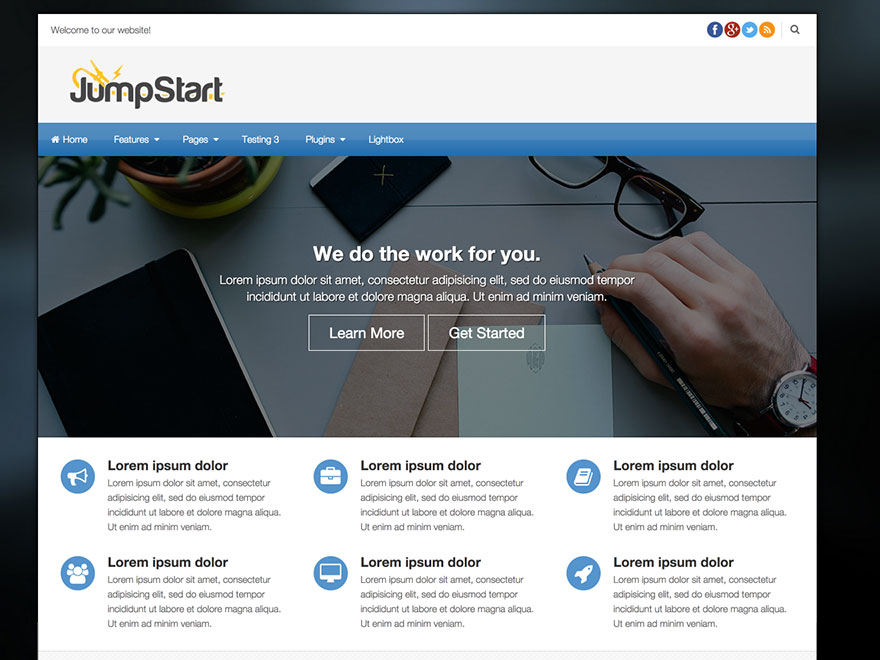
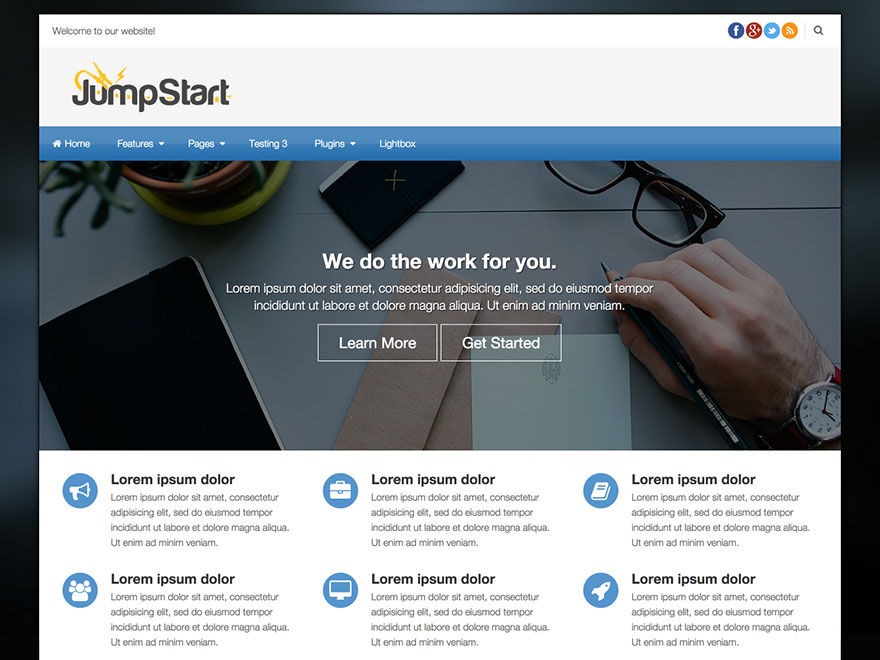
Little fixes to super user theme base

diff --git a/base/superuser/base.css b/base/superuser/base.css
@@ -126,7 +126,9 @@ Author URI: http://www.themeblvd.com
 	max-width: 1170px;
 }
 .js-boxed .tb-sticky-menu {
+	margin-left: -585px;
 	max-width: 1170px;
+	left: 50%;
 }
 .js-boxed .tb-sticky-menu > .wrap {
 	padding: 0 15px;
@@ -163,8 +165,10 @@ Author URI: http://www.themeblvd.com
 		max-width: 960px;
 	}
 	.js-boxed .tb-sticky-menu {
+		margin-left: -480px;
 		max-width: 960px;
 	}
+
 }
 @media (max-width: 992px) {
 	.js-boxed #container {

diff --git a/base/superuser/base.php b/base/superuser/base.php
@@ -73,7 +73,7 @@ function jumpstart_su_options() {
 			),
 			'layout_border_width' => array(
 				'id'		=> 'layout_border_width',
-				'name'		=> __('Bottom Border Width', 'themeblvd'),
+				'name'		=> __('Layout Border Width', 'themeblvd'),
 				'desc'		=> __('Select a width in pixels for the boxed layout. Set to <em>0px</em> for no border.', 'themeblvd'),
 				'std'		=> '1px',
 				'type'		=> 'slide',
